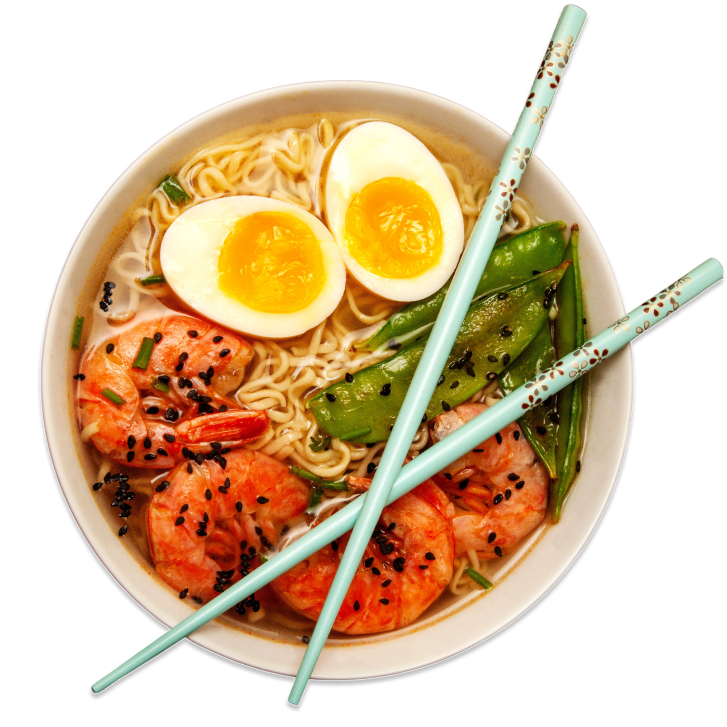
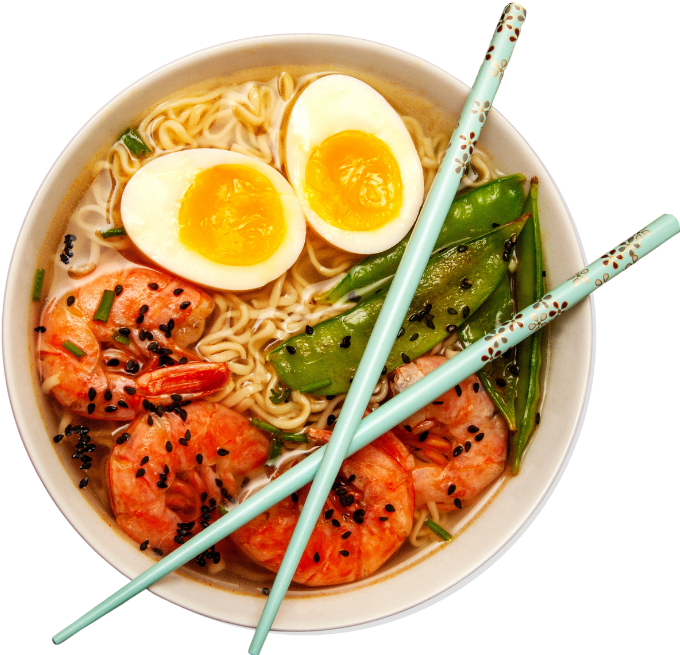
add navigation, fix hero section

diff --git a/css/style.css b/css/style.css
@@ -1,54 +1,59 @@
-/* 
-01 : TYPOGRAPHY SYSTEM
- - FONT SIZE (px): 
-    10 / 12 / 14 / 16 / 18 / 20 / 24 / 30 / 36 / 44 / 52 / 62 / 74 / 86 / 98
+/* NAVIGATION */
+.header {
+  display: flex;
+  align-items: center;
+  justify-content: space-between;
 
- - FONT WEIGHT: 400 / 500 / 600 / 700
-    default: 400
-
- - LINE HEIGHT:
-    default: 1
-
-02: COLOR 
-  - MAIN: #E67E22
-  - SECONDARY: #FFEA75
-  - TINTS
-  - SHADES
-  - ACCENTS:
-  - GREY:
-      #5C320E
-      #8A4C14
-      #A15818
-      #BF8E62
-05: SHADOW
-
-06: BORDER-RADIUS
-
-07: WHITE SPACE
-  - SPACING SYSTEM (px):  2 / 4 / 8 / 12 / 16 / 24 / 32 / 48 / 64 / 80 / 96 / 128 */
-
-* {
-  margin: 0;
-  padding: 0;
-  box-sizing: border-box;
+  height: 8.3rem;
+  background-color: #fff9d6;
+  padding: 0 4.5rem;
 }
 
-html {
-  font-size: 62.5%;
+.company-logo {
+  height: 2.2rem;
 }
 
-body {
-  font-family: "Rubik", sans-serif;
-  font-size: 2rem;
-  line-height: 1;
-  font-weight: 400;
-  color: #8a4c14;
+.nav-list {
+  display: flex;
+  align-items: center;
+  gap: 6.2rem;
+  list-style: none;
 }
+.nav-link:link,
+.nav-link:visited {
+  display: inline-block;
+  text-decoration: none;
+  color: #5c320e;
+  font-size: 1.8rem;
+  font-weight: 500;
+  transition: all 0.3s;
+}
+
+.nav-link:hover,
+.nav-link:active {
+  color: #e67e22;
+}
+
+.nav-link.nav-cta:link,
+.nav-link.nav-cta:visited {
+  background-color: #e67e22;
+  color: white;
+  box-shadow: 0 4px 4px rgba(0, 0, 0, 0.25);
+  border-radius: 9px;
+  padding: 1.2rem 2.4rem;
+}
+
+.nav-link.nav-cta:hover,
+.nav-link.nav-cta:active {
+  background-color: #cf711f;
+  box-shadow: none;
+}
+
+/* HERO SECTION */
 
 .hero {
-  max-width: 134rem;
-  height: 574px;
-  margin: 5rem auto;
+  max-width: 130rem;
+  margin: 1.9rem auto;
   padding: 0 6.1rem;
   background-color: #ffea75;
   border-radius: 58px;
@@ -60,10 +65,6 @@ body {
   position: relative;
 }
 
-.hero-text {
-  width: 60rem;
-}
-
 .hero-heading {
   color: #5c320e;
   font-size: 4.8rem;
@@ -72,9 +73,14 @@ body {
 }
 
 .hero-descrip {
-  width: 52.82rem;
+  max-width: 52.82rem;
   line-height: 1.6;
   margin-bottom: 4.8rem;
+}
+
+.hero-img-box {
+  max-width: 31.5rem;
+  padding: 28.5rem 30rem;
 }
 
 .hero-img {
@@ -84,45 +90,24 @@ body {
   width: 71.9rem;
   right: 0;
   top: 50%;
-  transform: translate(4%, -45%);
+  transform: translate(4%, -48.5%);
 }
 
-.btn {
-  text-decoration: none;
-  font-weight: 600;
+.meals-delivered {
+  display: flex;
+  align-items: center;
+  gap: 0.8rem;
+  margin-bottom: 3.3rem;
+}
+
+.meals-delivered p {
   display: inline-block;
-  padding: 2rem 2.5rem;
-  border-radius: 17px;
-  box-shadow: 0 4px 4px rgba(0, 0, 0, 0.25);
-
-  transition: all 0.3s;
-}
-
-.btn-primary:link,
-.btn-primary:visited {
-  background-color: #e67e22;
-  color: white;
-}
-
-.btn-primary:hover,
-.btn-primary:active {
-  background-color: #cf711f;
-  color: white;
-}
-
-.btn-second:link,
-.btn-second:visited {
-  background-color: #fff9d6;
-  color: #8a4c14;
-}
-
-.btn-second:hover,
-.btn-second:active {
-  background-color: #ffea75;
-  box-shadow: inset 0 0 0 2px #bf8e62;
+  font-size: 18px;
+  font-weight: 500;
   color: #a15818;
 }
 
-.mr-sm {
-  margin-right: 3.6rem;
+.meals-delivered span {
+  color: #cf711f;
+  font-weight: 600;
 }

diff --git a/index.html b/index.html
@@ -12,30 +12,59 @@
     />
 
     <link rel="stylesheet" href="css/style.css" />
+    <link rel="stylesheet" href="css/general.css" />
   </head>
   <body>
-    <section class="hero-section">
-      <div class="hero">
-        <div class="hero-text">
-          <h1 class="hero-heading">
-            A healthy meal delivered to your door, every single day
-          </h1>
-          <p class="hero-descrip">
-            The smart 365-days-per-year food subscription that will make you eat
-            healthy again. Tailored to your personal tastes and nutritional
-            needs.
-          </p>
-          <a href="#" class="btn btn-primary mr-sm">Start eating well</a>
-          <a href="#" class="btn btn-second">Learn more</a>
+    <header class="header">
+      <a href="#">
+        <img
+          src="assets/omnifood-logo.png"
+          class="company-logo"
+          alt="Omnifood Logo"
+        />
+      </a>
+      <nav class="main-nav">
+        <ul class="nav-list">
+          <li><a href="#" class="nav-link">How it works</a></li>
+          <li><a href="#" class="nav-link">Meals</a></li>
+          <li><a href="#" class="nav-link">Testimonials</a></li>
+          <li><a href="#" class="nav-link">Pricing</a></li>
+          <li><a href="#" class="nav-link nav-cta">Try for Free</a></li>
+        </ul>
+      </nav>
+    </header>
+    <main>
+      <section class="hero-section">
+        <div class="hero">
+          <div class="hero-text">
+            <h1 class="hero-heading">
+              A healthy meal delivered to your door, every single day
+            </h1>
+            <p class="hero-descrip">
+              The smart 365-days-per-year food subscription that will make you
+              eat healthy again. Tailored to your personal tastes and
+              nutritional needs.
+            </p>
+            <a href="#" class="btn btn-primary mr-sm">Start eating well</a>
+            <a href="#" class="btn btn-second">Learn more</a>
+          </div>
+          <div class="hero-img-box">
+            <img
+              src="assets\hero-img.png"
+              class="hero-img"
+              alt="Bowl of noodles"
+            />
+          </div>
+          <div class="meals-delivered">
+            <img
+              src="assets\icons\rice-bowl.svg"
+              class="hero-icon"
+              alt="Icon of a rice bowl with chopsticks"
+            />
+            <p><span>250,000+ meals</span> delivered last year!</p>
+          </div>
         </div>
-        <div class="hero-img-box">
-          <img
-            src="assets\hero-img.png"
-            class="hero-img"
-            alt="Bowl of noodles"
-          />
-        </div>
-      </div>
-    </section>
+      </section>
+    </main>
   </body>
 </html>

diff --git a/css/general.css b/css/general.css
@@ -1,0 +1,88 @@
+/* 
+01 : TYPOGRAPHY SYSTEM
+ - FONT SIZE (px): 
+    10 / 12 / 14 / 16 / 18 / 20 / 24 / 30 / 36 / 44 / 52 / 62 / 74 / 86 / 98
+
+ - FONT WEIGHT: 400 / 500 / 600 / 700
+    default: 400
+
+ - LINE HEIGHT:
+    default: 1
+
+02: COLOR 
+  - MAIN: #E67E22
+  - SECONDARY: #FFEA75
+  - TINTS: #FDF2E9
+  - SHADES: #cf711f
+  - ACCENTS:
+  - GREY:
+      #5C320E
+      #8A4C14
+      #A15818
+      #BF8E62
+05: SHADOW
+
+06: BORDER-RADIUS
+
+07: WHITE SPACE
+  - SPACING SYSTEM (px):  2 / 4 / 8 / 12 / 16 / 24 / 32 / 48 / 64 / 80 / 96 / 128 */
+
+* {
+  margin: 0;
+  padding: 0;
+  box-sizing: border-box;
+}
+
+html {
+  font-size: 62.5%;
+}
+
+body {
+  font-family: "Rubik", sans-serif;
+  font-size: 2rem;
+  line-height: 1;
+  font-weight: 400;
+  color: #8a4c14;
+}
+
+/* REUSABLE COMPONENTS */
+.mr-sm {
+  margin-right: 3.6rem;
+}
+
+.btn {
+  text-decoration: none;
+  font-weight: 600;
+  display: inline-block;
+  padding: 2rem 2.5rem;
+  border-radius: 17px;
+  box-shadow: 0 4px 4px rgba(0, 0, 0, 0.25);
+
+  transition: all 0.3s;
+}
+
+.btn-primary:link,
+.btn-primary:visited {
+  background-color: #e67e22;
+  color: white;
+}
+
+.btn-primary:hover,
+.btn-primary:active {
+  background-color: #cf711f;
+  color: white;
+  box-shadow: none;
+}
+
+.btn-second:link,
+.btn-second:visited {
+  background-color: #fff9d6;
+  color: #8a4c14;
+}
+
+.btn-second:hover,
+.btn-second:active {
+  background-color: #ffea75;
+  box-shadow: inset 0 0 0 2px #bf8e62;
+  color: #a15818;
+}
